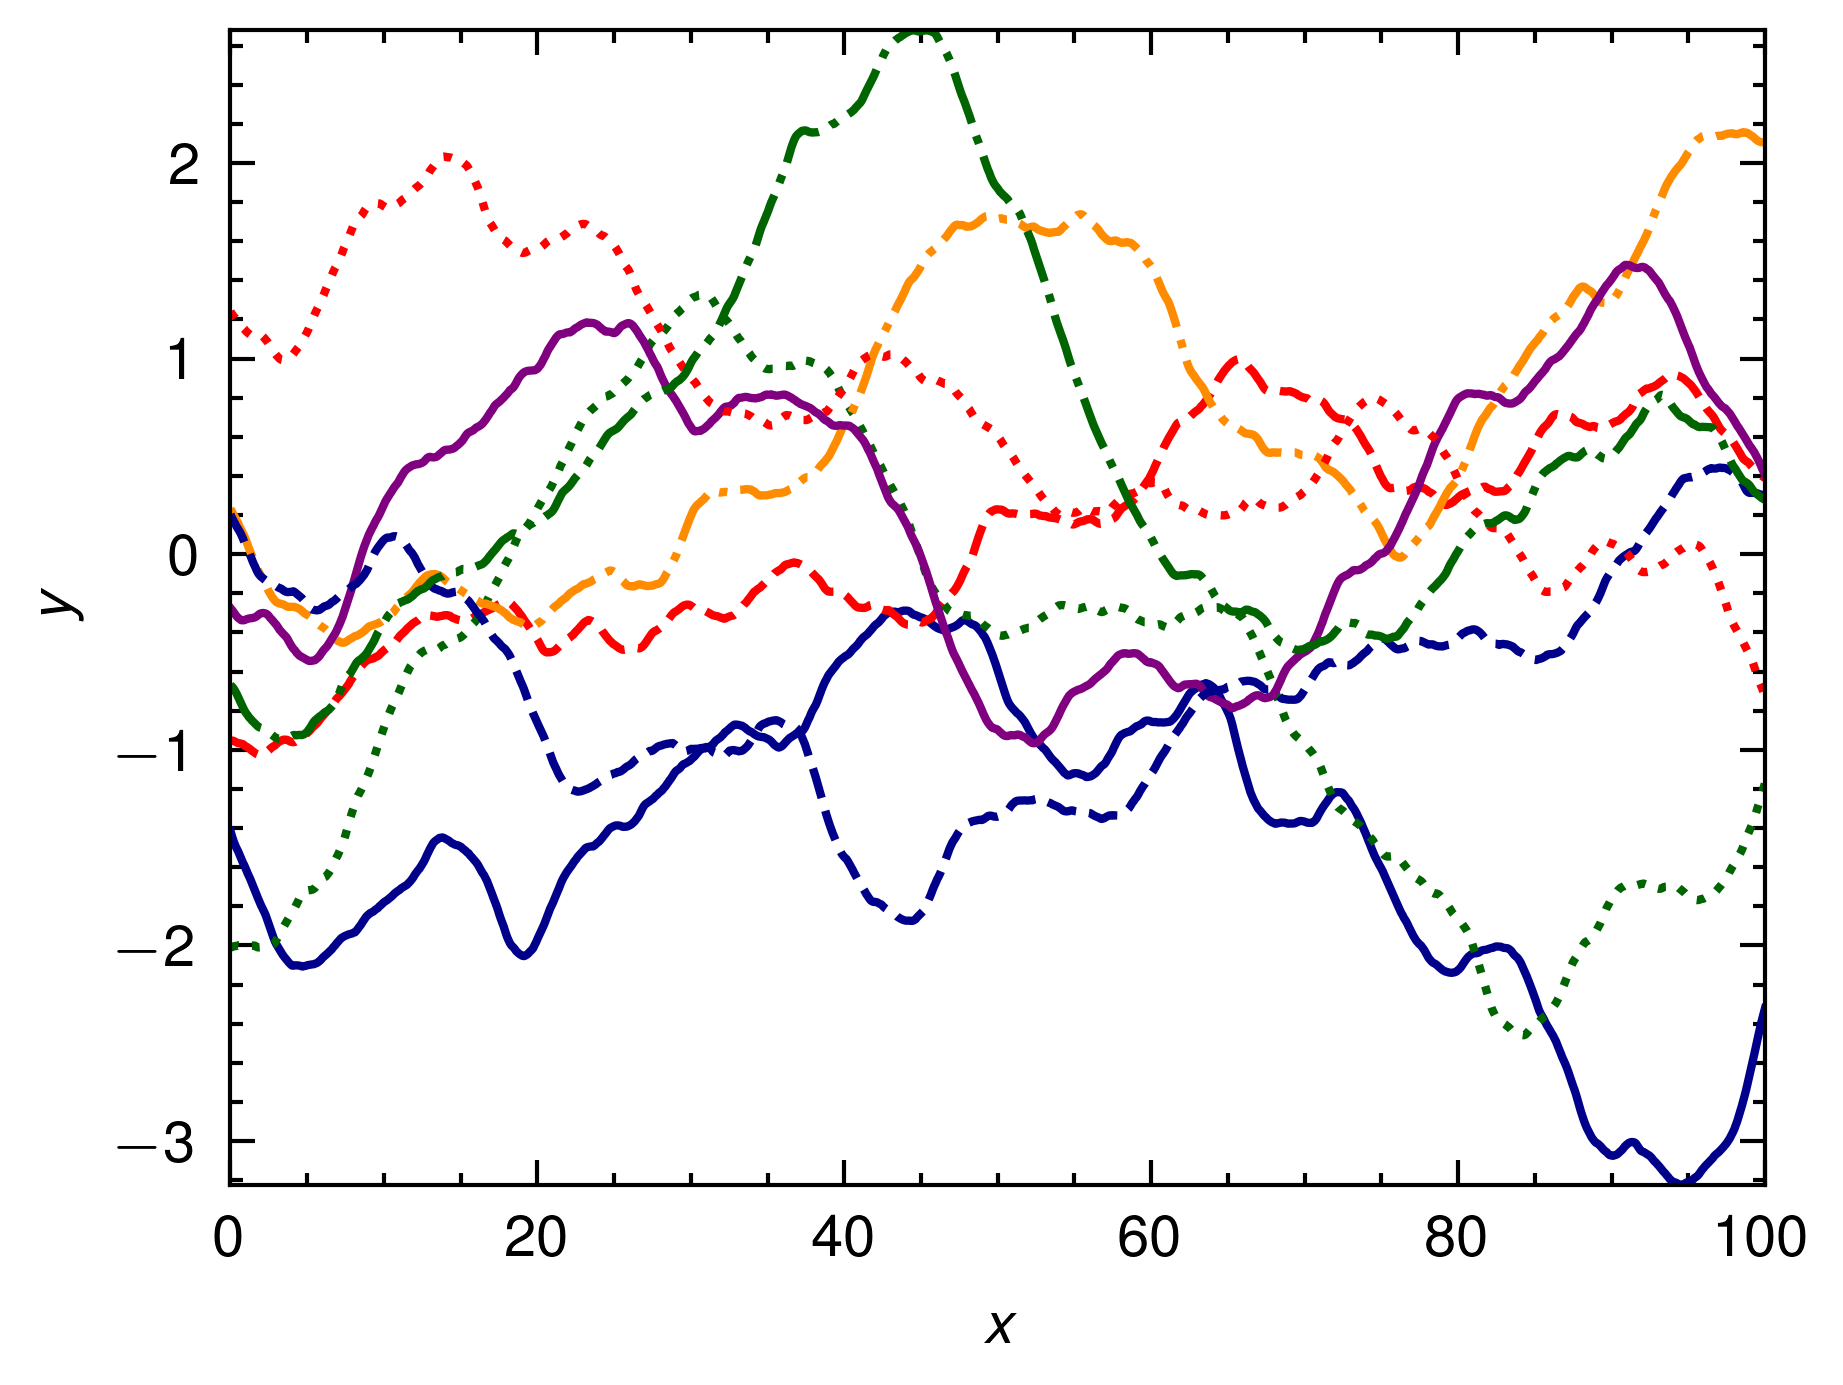
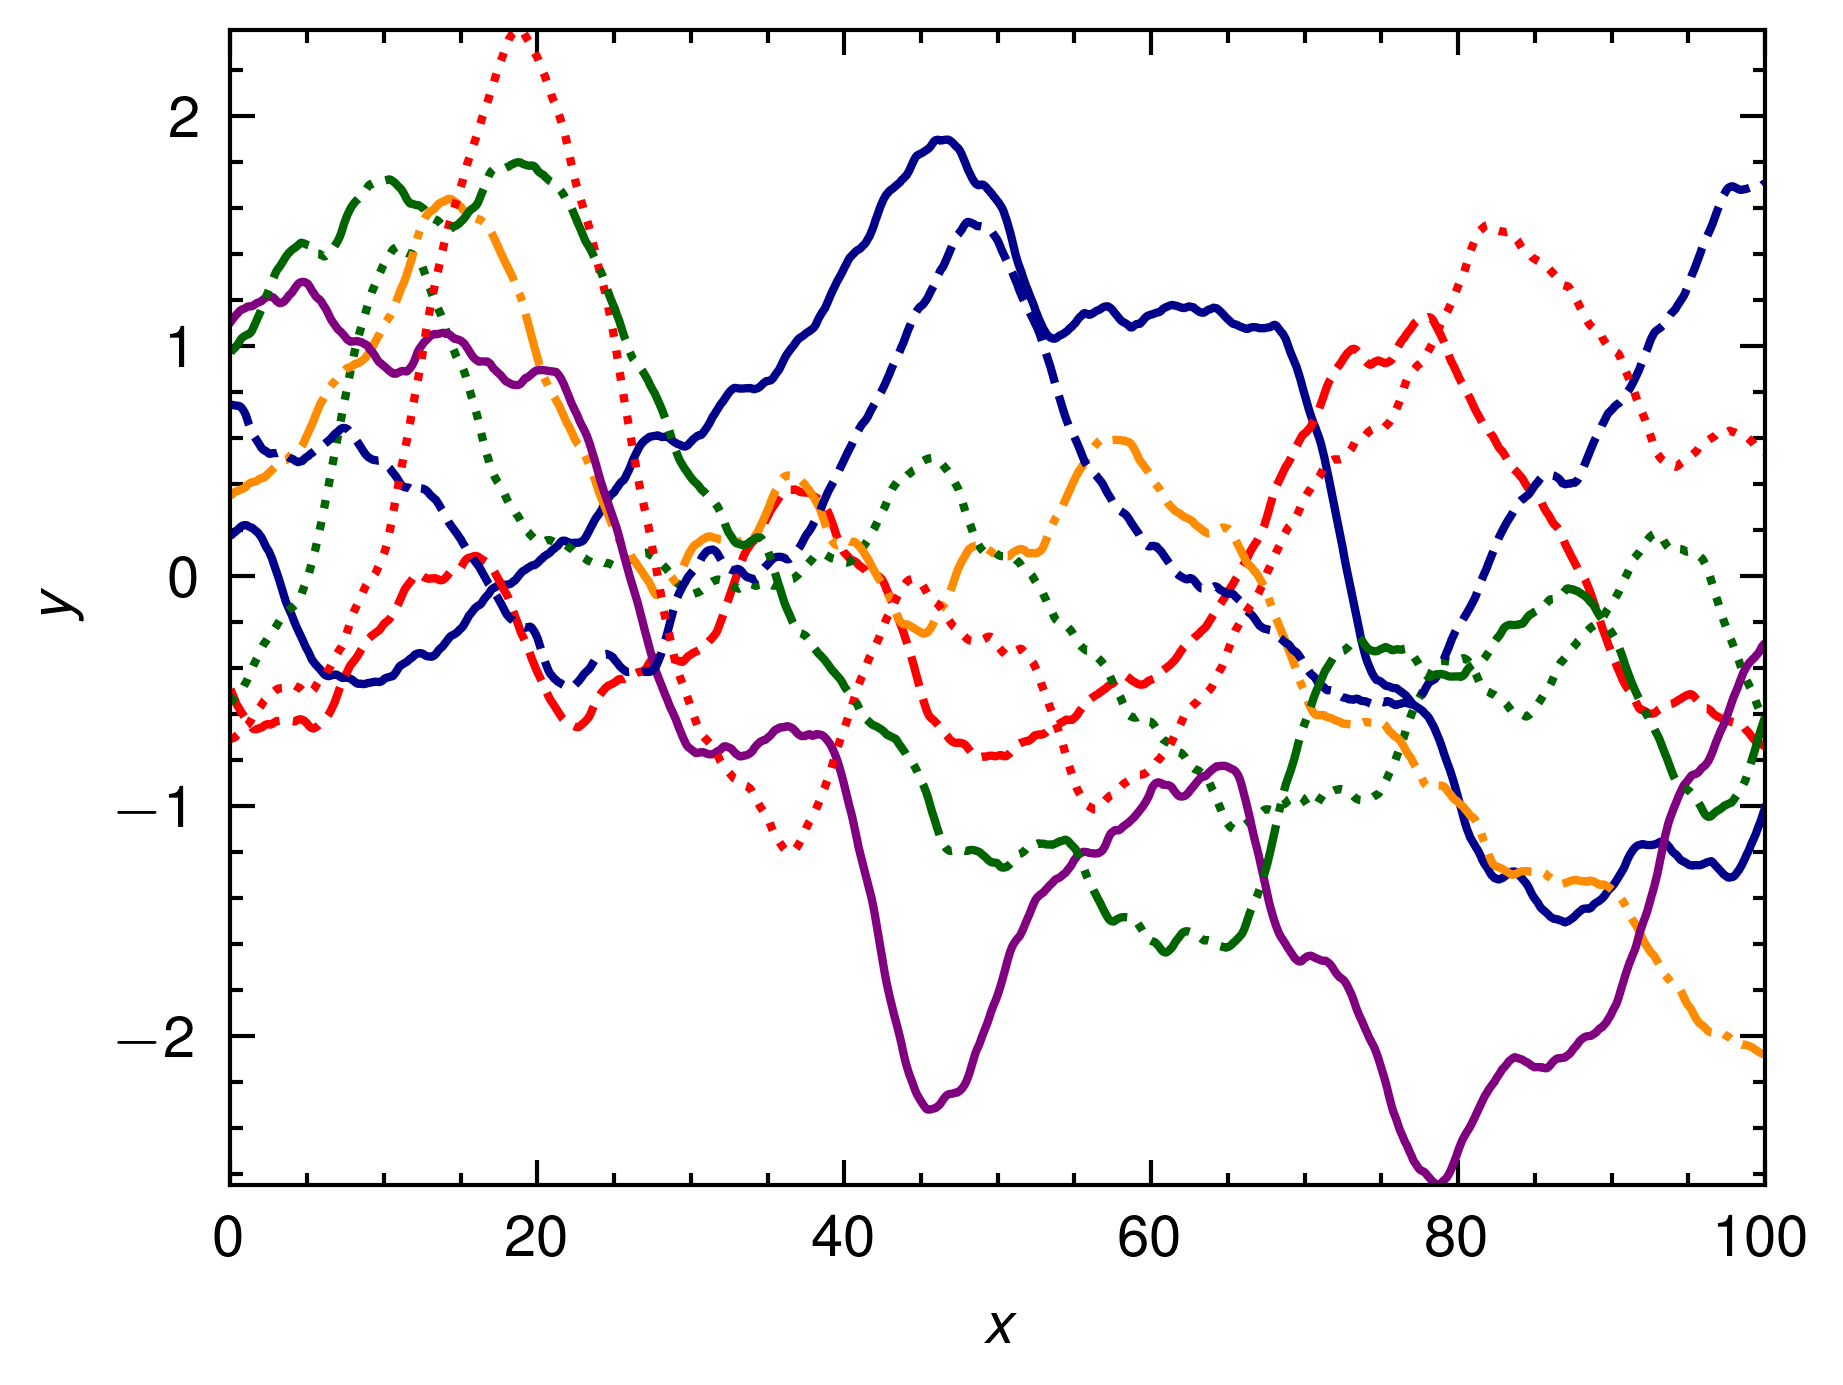
Ver 0.2.1 - Add more kernels

diff --git a/src/lib.rs b/src/lib.rs
@@ -95,7 +95,7 @@ pub enum Kernel {
     /// Squared exponential kernel
     ///
     /// # Parameters
-    /// - `sigma`: Length scale
+    /// - `l`: Length scale
     ///
     /// **Caution**: for the circulant embedding, the length scale is corresponded to the range (0,1)
     SquaredExponential(f64),
@@ -107,20 +107,34 @@ pub enum Kernel {
     ///
     /// **Caution**: for the circulant embedding, the length scale is corresponded to the range (0,1)
     Matern(f64, f64),
+    /// Locally Periodic kernel
+    ///
+    /// # Parameters
+    /// - `p`: Period
+    /// - `l`: Length scale
+    LocalPeriodic(f64, f64),
+    /// Rational Quadratic kernel
+    ///
+    /// # Parameters
+    /// - `alpha`: Smoothness parameter
+    /// - `l`: Length scale
+    RationalQuadratic(f64, f64),
 }
 
 impl Kernel {
     pub fn eval(&self, dx: f64) -> f64 {
         match self {
-            Kernel::SquaredExponential(sigma) => squared_exponential(dx, *sigma),
+            Kernel::SquaredExponential(l) => squared_exponential(dx, *l),
             Kernel::Matern(nu, rho) => matern(dx, *nu, *rho),
+            Kernel::LocalPeriodic(p, l) => periodic(dx, *p, *l) * squared_exponential(dx, *l),
+            Kernel::RationalQuadratic(alpha, l) => rational_quadratic(dx, *alpha, *l),
         }
     }
 }
 
 /// Squared exponential kernel
-pub fn squared_exponential(dx: f64, sigma: f64) -> f64 {
-   (-dx.powi(2) / (2.0 * sigma.powi(2))).exp()
+pub fn squared_exponential(dx: f64, l: f64) -> f64 {
+   (-dx.powi(2) / (2.0 * l.powi(2))).exp()
 }
 
 /// Matern kernel
@@ -132,4 +146,14 @@ pub fn matern(dx: f64, nu: f64, rho: f64) -> f64 {
     }
     let (_, knu) = Inu_Knu(nu, sqrt_2_nu_dx_rho);
     2f64.powf(1f64 - nu) / gamma(nu) * (sqrt_2_nu_dx_rho).powf(nu) * knu
+}
+
+/// Periodic kernel
+pub fn periodic(dx: f64, p: f64, l: f64) -> f64 {
+    (-(2f64 * (std::f64::consts::PI * dx.abs() / p).sin().powi(2)) / l.powi(2)).exp()
+}
+
+/// Rational Quadratic kernel
+pub fn rational_quadratic(dx: f64, alpha: f64, l: f64) -> f64 {
+    (1.0 + dx.powi(2) / (2.0 * alpha * l.powi(2))).powf(-alpha)
 }

diff --git a/examples/rq_test.rs b/examples/rq_test.rs
@@ -1,0 +1,44 @@
+use peroxide::fuga::*;
+use rugfield::{grf, Kernel::RationalQuadratic};
+
+fn main() -> Result<(), Box<dyn Error>> {
+    let x_max = 100.0;
+    let x_min = 0.0;
+    let alpha = 1.5;
+    let l = 0.2;
+    let n = 1000;
+    let samples = 8;
+
+    let kernel = RationalQuadratic(alpha, l);
+
+    let x = linspace_with_precision(x_min, x_max, n, 2);
+    let grfs = (0 .. samples).map(|_| grf(n, kernel)).collect::<Vec<_>>();
+
+    // Plot
+    let line_style_cands = vec![LineStyle::Solid, LineStyle::Dashed, LineStyle::Dotted, LineStyle::DashDot];
+    let color_cands = ["darkblue", "red", "darkgreen", "darkorange", "purple"];
+    let mut line_style = vec![];
+    let mut color = vec![];
+    for i in 0 .. samples {
+        line_style.push((i, line_style_cands[i % line_style_cands.len()]));
+        color.push((i, color_cands[i % color_cands.len()]));
+    }
+
+    let mut plt = Plot2D::new();
+    plt.set_domain(x);
+    for grf in grfs.into_iter() {
+        plt.insert_image(grf);
+    }
+    plt
+        .set_line_style(line_style)
+        .set_color(color)
+        .set_xlabel(r"$x$")
+        .set_ylabel(r"$y$")
+        .tight_layout()
+        .set_style(PlotStyle::Nature)
+        .set_dpi(600)
+        .set_path("examples/assets/rq_test.png")
+        .savefig()?;
+
+    Ok(())
+}

diff --git a/examples/periodic_test.rs b/examples/periodic_test.rs
@@ -1,0 +1,44 @@
+use peroxide::fuga::*;
+use rugfield::{grf, Kernel::LocalPeriodic};
+
+fn main() -> Result<(), Box<dyn Error>> {
+    let x_max = 100.0;
+    let x_min = 0.0;
+    let p = 1.0;
+    let l = 0.8;
+    let n = 1000;
+    let samples = 8;
+
+    let kernel = LocalPeriodic(p, l);
+
+    let x = linspace_with_precision(x_min, x_max, n, 2);
+    let grfs = (0 .. samples).map(|_| grf(n, kernel)).collect::<Vec<_>>();
+
+    // Plot
+    let line_style_cands = vec![LineStyle::Solid, LineStyle::Dashed, LineStyle::Dotted, LineStyle::DashDot];
+    let color_cands = ["darkblue", "red", "darkgreen", "darkorange", "purple"];
+    let mut line_style = vec![];
+    let mut color = vec![];
+    for i in 0 .. samples {
+        line_style.push((i, line_style_cands[i % line_style_cands.len()]));
+        color.push((i, color_cands[i % color_cands.len()]));
+    }
+
+    let mut plt = Plot2D::new();
+    plt.set_domain(x);
+    for grf in grfs.into_iter() {
+        plt.insert_image(grf);
+    }
+    plt
+        .set_line_style(line_style)
+        .set_color(color)
+        .set_xlabel(r"$x$")
+        .set_ylabel(r"$y$")
+        .tight_layout()
+        .set_style(PlotStyle::Nature)
+        .set_dpi(600)
+        .set_path("examples/assets/periodic_test.png")
+        .savefig()?;
+
+    Ok(())
+}

diff --git a/README.md b/README.md
@@ -5,7 +5,11 @@ Rugfield is a Rust library for generating Gaussian Random Fields (GRFs) using th
 ## Features
 
 - Generate GRFs using the circulant embedding method
-- Support for squared exponential and Matérn kernels
+- Support for various kernels.
+  - `SquaredExponential`
+  - `Matern`
+  - `LocalPeriodic`
+  - `RationalQuadratic`
 - Efficient computation using the `rustfft` library
 - Optional serialization support with the `serde` feature
 
@@ -15,7 +19,7 @@ Add the following to your `Cargo.toml` file:
 
 ```toml
 [dependencies]
-rugfield = "0.2.0"
+rugfield = "0.2.1"
 ```
 
 ## Usage

diff --git a/RELEASES.md b/RELEASES.md
@@ -1,4 +1,10 @@
-# Ver 0.2.0
+# Ver 0.2.1 (2024-04-07)
+
+- Implement more kernels
+  - `LocalPeriodic`
+  - `RationalQuadratic`
+
+# Ver 0.2.0 (2024-04-06)
 
 - Remove `gen_grf` function
 - Implement Matern kernel
